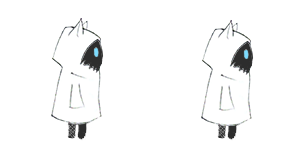
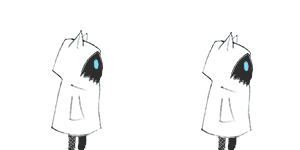
Jumping and falling added. COLLISION IS BUGGY AT TREE.

Changed region(s): [[0.15, 0.1333, 0.36, 1.0], [0.66, 0.1333, 0.87, 1.0]]

diff --git a/colourIT.py b/colourIT.py
@@ -33,7 +33,7 @@ def load_sprite_sheets(dir1, dir2, width, height, direction=False):
             surface = pygame.Surface((width, height), pygame.SRCALPHA, 32)
             rect = pygame.Rect(i * width, 0, width, height)
             surface.blit(sprite_sheet, (0, 0), rect)
-            sprites.append(pygame.transform.scale2x(surface))
+            sprites.append(surface)
         
         if direction:
             all_sprites[image.replace(".png", "") + "_right"] = sprites
@@ -58,9 +58,16 @@ class Player(pygame.sprite.Sprite):
         self.direction = "left"
         self.animation_count = 0
         self.fall_count = 0
+        self.jump_count = 0
         self.melee_attack = False
 
 #MOVEMENT FUNC
+    def jump(self):
+        self.y_vel = -self.GRAVITY * 8
+        self.animation_count = 0
+        self.jump_count += 1
+        self.fall_count = 0
+
     def move(self, dx, dy):
         self.rect.x += dx
         self.rect.y += dy
@@ -87,18 +94,33 @@ class Player(pygame.sprite.Sprite):
             self.animation_count = 0
 
     def loop(self, fps):
-        # self.y_vel += min(1, (self.fall_count / fps) * self.GRAVITY)
-        self.move(self.x_vel, self.y_vel)
+        self.y_vel += min(1, (self.fall_count / fps) * self.GRAVITY)
+        #self.move(self.x_vel, self.y_vel)
 
         self.fall_count += 1
         self.update_sprite()
 
+    def landed(self):
+        self.fall_count = 0
+        self.y_vel = 0
+        self.jump_count = 0
+
+    def hit_head(self):
+        self.count = 0
+        self.y_vel *= -1
+
     def update_sprite(self):
         sprite_sheet = "idle"
-        if self.x_vel != 0:
+        if self.y_vel < 0:
+            if self.jump_count == 1:
+                sprite_sheet = "jump"
+            elif self.jump_count == 2:
+                sprite_sheet = "jump"
+        elif self.y_vel > self.GRAVITY * 2:
+            sprite_sheet = "fall"
+        elif self.x_vel != 0:
             sprite_sheet = "run"
-
-        if self.melee_attack:
+        elif self.melee_attack:
             sprite_sheet = "melee"
 
         sprite_sheet_name = sprite_sheet + "_" + self.direction
@@ -114,6 +136,12 @@ class Player(pygame.sprite.Sprite):
                 sprite_index = 0
             else:
                 sprite_index = (self.animation_count // self.ANIMATION_DELAY) % len(sprites)
+
+        elif sprite_sheet == "jump":
+            sprite_index = (self.animation_count // self.ANIMATION_DELAY)
+            if sprite_index >= len(sprites):
+                        sprite_index = len(sprites) - 1
+
         else:
             sprite_index = (self.animation_count // self.ANIMATION_DELAY) % len(sprites)
     
@@ -128,16 +156,68 @@ class Player(pygame.sprite.Sprite):
     def draw(self, win):
         win.blit(self.sprite, (self.rect.x, self.rect.y))
 
-def handle_move(player):
+def handle_vertical_collision(player, objects, dy):
+    collided_objects = []
+
+    player.move(0, dy)
+    player.update()
+
+    for obj in objects:
+        if pygame.sprite.collide_mask(player, obj):
+            if dy > 0: 
+                threshold = player.y_vel + 10 
+                
+                if player.rect.bottom < obj.rect.top + threshold:
+                    player.rect.bottom = obj.rect.top
+                    player.landed()
+            
+            elif dy < 0:            
+                if player.rect.top > obj.rect.bottom - 50:
+                    player.rect.top = obj.rect.bottom
+                    player.hit_head()
+
+            collided_objects.append(obj)
+    
+    return collided_objects
+
+def handle_horizontal_collision(player, objects, dx):
+    if dx == 0:
+        return
+
+    player.move(dx, 0)
+    player.update()
+    
+    collided_object = None
+    
+    for obj in objects:
+        if pygame.sprite.collide_mask(player, obj):
+            collided_object = obj
+            break
+            
+    if collided_object:
+        step = 1 if dx > 0 else -1
+        
+        for _ in range(abs(int(dx)) + 5):
+            if not pygame.sprite.collide_mask(player, collided_object):
+                break
+            
+            player.move(-step, 0)
+            player.update()
+
+def handle_move(player, objects):
     keys = pygame.key.get_pressed()
 
     player.x_vel = 0
+
     if keys[pygame.K_a]:
-        player.move_left(PLAYER_VEL)
+            player.move_left(PLAYER_VEL)
     if keys[pygame.K_d]:
-        player.move_right(PLAYER_VEL)
+            player.move_right(PLAYER_VEL)
     if keys[pygame.K_SPACE]:
         player.melee()
+
+    handle_horizontal_collision(player, objects, player.x_vel)
+    handle_vertical_collision(player, objects, player.y_vel)
     
 
 def draw_player(player): 
@@ -156,6 +236,7 @@ class Tile(pygame.sprite.Sprite):
                                             int(original_image.get_height() * scale)))
         self.rect = self.image.get_rect()
         self.rect.x, self.rect.y = x, y
+        self.mask = pygame.mask.from_surface(self.image) #MASK FOR COLLISION ADDED
     
     def draw(self, surface):
         surface.blit(self.image, (self.rect.x, self.rect.y))
@@ -331,8 +412,8 @@ def main():
             if pause == False:
                 WINDOW.fill(WHITE)
                 tile_map.draw_map(WINDOW) #draw the map (so it appears in game)
-                handle_move(player)
                 player.loop(FPS)
+                handle_move(player, tile_map.tiles)
                 draw_player(player)
                 PAUSE_BUTTON = draw_pause_button(mouse_pos)
             elif pause == True:
@@ -398,6 +479,9 @@ def main():
                             save_game(player)
 
             if event.type == pygame.KEYDOWN:
+                if page == 1 and not pause:
+                    if event.key == pygame.K_w and player.jump_count < 2:
+                        player.jump()
                 if event.key == pygame.K_ESCAPE:
                     if page == 1:
                         pause = not pause
